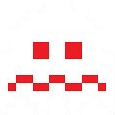
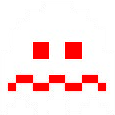
Vlastní assety hotové (až na menu), duchové se dívají do jejich aktuálního směru

Changed region(s): [[0.0522, 0.6261, 0.9391, 0.8087], [0.5478, 0.3391, 0.7304, 0.5217], [0.2609, 0.3391, 0.4435, 0.5217]]

diff --git a/res/ts/ghost/ghostTemplate/ghostTemplate.ts b/res/ts/ghost/ghostTemplate/ghostTemplate.ts
@@ -8,13 +8,13 @@ export abstract class GhostTemplate {
     height: number;
   };
   protected image: HTMLImageElement;
-  protected imagePaths: string[];
+  protected imagePaths: string[][];
   protected imageIndex: number;
   protected imageLoaded: boolean | null = null; // to tady bohužel musí být, protože se metoda pro vykreslování ghosta provádí dřív, než se obrázek načte
   protected distance: number; // vzdálenost, o kterou se duch pohybuje
   public currentDirection: string;
   public mode: string; // budou 2 mody duchů - chase nebo frightened
-
+  public imageIndexDirection: number;
   constructor(posX: number, posY: number, imageIndex: number) {
     this.posX = posX;
     this.posY = posY;
@@ -25,16 +25,38 @@ export abstract class GhostTemplate {
     };
 
     this.image = new Image();
+    this.imageIndexDirection = 0;
     this.imagePaths = [
-      // cesty k obrázkům jsou uloženy zde
-      "../../res/assets/ghosts/blinky.png",
-      "../../res/assets/ghosts/clyde.png",
-      "../../res/assets/ghosts/inky.png",
-      "../../res/assets/ghosts/pinky.png",
-      "../../res/assets/ghosts/vulnerable.png"
+      [
+        "../../res/assets/ghosts/blinky/blinkydown.png",
+        "../../res/assets/ghosts/blinky/blinkyleft.png",
+        "../../res/assets/ghosts/blinky/blinkyright.png",
+        "../../res/assets/ghosts/blinky/blinkyup.png",
+      ],
+      [
+        "../../res/assets/ghosts/clyde/clydedown.png",
+        "../../res/assets/ghosts/clyde/clydeleft.png",
+        "../../res/assets/ghosts/clyde/clyderight.png",
+        "../../res/assets/ghosts/clyde/clydeup.png",
+      ],
+      [
+        "../../res/assets/ghosts/inky/inkydown.png",
+        "../../res/assets/ghosts/inky/inkyleft.png",
+        "../../res/assets/ghosts/inky/inkyright.png",
+        "../../res/assets/ghosts/inky/inkyup.png",
+      ],
+      [
+        "../../res/assets/ghosts/pinky/pinkydown.png",
+        "../../res/assets/ghosts/pinky/pinkyleft.png",
+        "../../res/assets/ghosts/pinky/pinkyright.png",
+        "../../res/assets/ghosts/pinky/pinkyup.png",
+      ],
+      [
+        "../../res/assets/ghosts/vulnerable.png"
+      ]
     ];
 
-    this.image.src = this.imagePaths[this.imageIndex];
+    this.image.src = this.imagePaths[this.imageIndex][this.imageIndexDirection];
     this.image.onload = () => {
       this.imageLoaded = true;
     };

diff --git a/res/js/ghost/ghost.js b/res/js/ghost/ghost.js
@@ -25,7 +25,7 @@ export class Ghost extends GhostTemplate {
         if (this.mode === "frightened")
             return;
         this.imageIndex = 4;
-        this.image.src = this.imagePaths[this.imageIndex];
+        this.image.src = this.imagePaths[this.imageIndex][0];
         this.mode = "frightened";
         this.distance = 1;
         console.log(this.mode);
@@ -45,12 +45,10 @@ export class Ghost extends GhostTemplate {
             this.imageIndex = 1;
         if (this === pinky)
             this.imageIndex = 3;
-        this.image.src = this.imagePaths[this.imageIndex];
+        this.image.src = this.imagePaths[this.imageIndex][this.imageIndexDirection];
         this.mode = "chase";
-        this.multiplePoints = 0;
         this.distance = 1.7;
-        console.log(this.mode);
-        this.drawGhost();
+        this.switchImageByDirection();
     }
     /**
      * METODA PRO VYKRESLENÍ DUCHA
@@ -60,6 +58,29 @@ export class Ghost extends GhostTemplate {
             if (ctx !== null) {
                 ctx.drawImage(this.image, this.posX, this.posY, this.size.width, this.size.height);
             }
+        }
+    }
+    switchImageByDirection() {
+        if (this.mode !== "frightened") {
+            switch (this.currentDirection) {
+                case "down":
+                    this.imageIndexDirection = 0;
+                    break;
+                case "left":
+                    this.imageIndexDirection = 1;
+                    break;
+                case "right":
+                    this.imageIndexDirection = 2;
+                    break;
+                case "up":
+                    this.imageIndexDirection = 3;
+                    break;
+            }
+            this.image.src = this.imagePaths[this.imageIndex][this.imageIndexDirection];
+        }
+        else {
+            this.imageIndex = 4;
+            this.imageIndexDirection = 0;
         }
     }
     /**
@@ -87,8 +108,7 @@ export class Ghost extends GhostTemplate {
     handleCollisionWithPacman() {
         if (this.isPacmanCatched()) {
             if (this.mode === "frightened") {
-                this.multiplePoints++;
-                pacman.score += 200 * this.multiplePoints;
+                pacman.score += 200;
                 this.resetToStartPosition();
                 pacmanScore.innerText = `Score ${pacman.score}`;
             }

diff --git a/res/js/ghost/ghostTemplate/ghostTemplate.js b/res/js/ghost/ghostTemplate/ghostTemplate.js
@@ -10,6 +10,7 @@ export class GhostTemplate {
     distance; // vzdálenost, o kterou se duch pohybuje
     currentDirection;
     mode; // budou 2 mody duchů - chase nebo frightened
+    imageIndexDirection;
     constructor(posX, posY, imageIndex) {
         this.posX = posX;
         this.posY = posY;
@@ -19,15 +20,37 @@ export class GhostTemplate {
             height: oneBlockHeight,
         };
         this.image = new Image();
+        this.imageIndexDirection = 0;
         this.imagePaths = [
-            // cesty k obrázkům jsou uloženy zde
-            "../../res/assets/ghosts/blinky.png",
-            "../../res/assets/ghosts/clyde.png",
-            "../../res/assets/ghosts/inky.png",
-            "../../res/assets/ghosts/pinky.png",
-            "../../res/assets/ghosts/vulnerable.png"
+            [
+                "../../res/assets/ghosts/blinky/blinkydown.png",
+                "../../res/assets/ghosts/blinky/blinkyleft.png",
+                "../../res/assets/ghosts/blinky/blinkyright.png",
+                "../../res/assets/ghosts/blinky/blinkyup.png",
+            ],
+            [
+                "../../res/assets/ghosts/clyde/clydedown.png",
+                "../../res/assets/ghosts/clyde/clydeleft.png",
+                "../../res/assets/ghosts/clyde/clyderight.png",
+                "../../res/assets/ghosts/clyde/clydeup.png",
+            ],
+            [
+                "../../res/assets/ghosts/inky/inkydown.png",
+                "../../res/assets/ghosts/inky/inkyleft.png",
+                "../../res/assets/ghosts/inky/inkyright.png",
+                "../../res/assets/ghosts/inky/inkyup.png",
+            ],
+            [
+                "../../res/assets/ghosts/pinky/pinkydown.png",
+                "../../res/assets/ghosts/pinky/pinkyleft.png",
+                "../../res/assets/ghosts/pinky/pinkyright.png",
+                "../../res/assets/ghosts/pinky/pinkyup.png",
+            ],
+            [
+                "../../res/assets/ghosts/vulnerable.png"
+            ]
         ];
-        this.image.src = this.imagePaths[this.imageIndex];
+        this.image.src = this.imagePaths[this.imageIndex][this.imageIndexDirection];
         this.image.onload = () => {
             this.imageLoaded = true;
         };

diff --git a/res/ts/ghost/ghost.ts b/res/ts/ghost/ghost.ts
@@ -36,7 +36,7 @@ export class Ghost extends GhostTemplate {
   public setFrightenedMode(): void {
     if (this.mode === "frightened") return;
     this.imageIndex = 4;
-    this.image.src = this.imagePaths[this.imageIndex];
+    this.image.src = this.imagePaths[this.imageIndex][0];
     this.mode = "frightened";
     this.distance = 1;
     console.log(this.mode);
@@ -56,12 +56,11 @@ export class Ghost extends GhostTemplate {
     if (this === clyde) this.imageIndex = 1;
     if (this === pinky) this.imageIndex = 3;
 
-    this.image.src = this.imagePaths[this.imageIndex];
+    this.image.src = this.imagePaths[this.imageIndex][this.imageIndexDirection];
     this.mode = "chase";
-    this.multiplePoints = 0;
     this.distance = 1.7;
-    console.log(this.mode);
-    this.drawGhost();
+
+    this.switchImageByDirection();
   }
 
   /**
@@ -81,6 +80,30 @@ export class Ghost extends GhostTemplate {
       }
     }
   }
+
+  public switchImageByDirection(): void {
+    if(this.mode !== "frightened") {
+      switch (this.currentDirection) {
+        case "down":
+          this.imageIndexDirection = 0;
+          break;
+        case "left":
+          this.imageIndexDirection = 1;
+          break;
+        case "right":
+          this.imageIndexDirection = 2;
+          break;
+        case "up":
+          this.imageIndexDirection = 3;
+          break;
+      }
+      this.image.src = this.imagePaths[this.imageIndex][this.imageIndexDirection];
+    } else {
+      this.imageIndex = 4;
+      this.imageIndexDirection = 0;
+    }
+  }
+
 
   /**
    * METODY PRO POHYB DUCHŮ
@@ -109,8 +132,7 @@ export class Ghost extends GhostTemplate {
   private handleCollisionWithPacman(): void {
     if (this.isPacmanCatched()) {
       if (this.mode === "frightened") {
-        this.multiplePoints++;
-        pacman.score += 200 * this.multiplePoints;
+        pacman.score += 200;
         this.resetToStartPosition();
         pacmanScore!.innerText = `Score ${pacman.score}`;
       } else if (this.mode === "chase") {

diff --git a/index.html b/index.html
@@ -4,7 +4,7 @@
     <meta charset="UTF-8">
     <meta name="viewport" content="width=device-width, initial-scale=1.0">
     <title>Pacman - ročníková práce</title>
-    <link rel="icon" href="./res/assets/icon/icon.ico" type="image/x-icon">
+    <link rel="icon" href="./res/assets/icon/icon.png" type="image/x-icon">
     <link rel="stylesheet" href="./res/css/style.css">
 </head>
 <body>

diff --git a/res/js/gameSettings/ghostSettings/ghostSettings.js b/res/js/gameSettings/ghostSettings/ghostSettings.js
@@ -28,4 +28,9 @@ const initializeGhosts = () => {
         ghost.initializeMovement();
     });
 };
+const imageGhostInterval = setInterval(() => {
+    [blinky, pinky, inky, clyde].forEach((ghost) => {
+        ghost.switchImageByDirection();
+    });
+}, 100);
 export { ghostUtills, initializeGhosts, blinky, pinky, inky, clyde, loadGhostPositions };

diff --git a/res/ts/gameSettings/ghostSettings/ghostSettings.ts b/res/ts/gameSettings/ghostSettings/ghostSettings.ts
@@ -35,4 +35,10 @@ const initializeGhosts = (): void => {
   });
 };
 
+const imageGhostInterval = setInterval(() => {
+  [blinky, pinky, inky, clyde].forEach((ghost) => {
+    ghost.switchImageByDirection();
+  });
+}, 100);
+
 export {ghostUtills, initializeGhosts, blinky, pinky, inky, clyde, loadGhostPositions};
